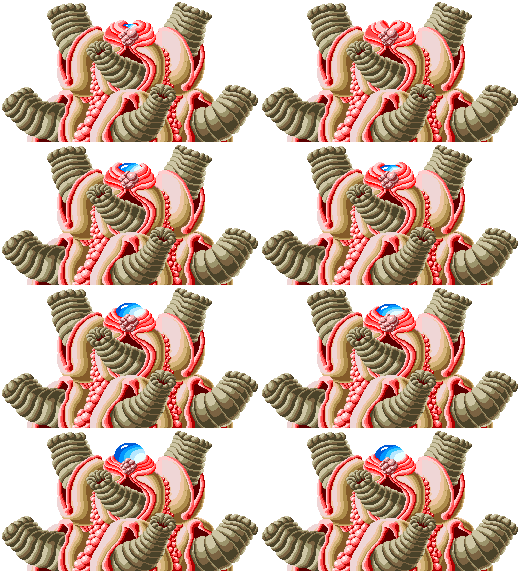
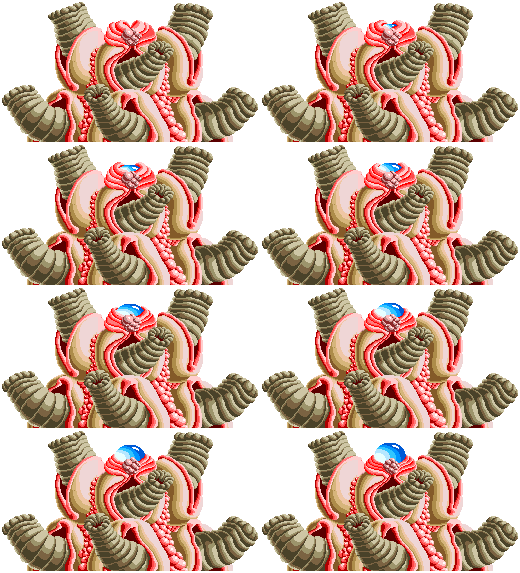
[Feature] implement image storage and handling technic (#47)
* [Feature] implement image storage and handling technic

* [Assets] add cluster to image

diff --git a/src/client/systems/SpriteSystem.cpp b/src/client/systems/SpriteSystem.cpp
@@ -10,6 +10,10 @@
 
 SpriteSystem::SpriteSystem(Manager* ECS) {
     this->_ECS = ECS;
+
+    this->_sheet[Animation::AnimationID::Orb] = {"resources/r-typesheet3.png", 1, 1, 16, 16, 12, 1, 1, 0};
+    this->_sheet[Animation::AnimationID::Vortex] = {"resources/r-typesheet30a.png", 1, 3, 31, 31, 3, 1, 2, 0};
+    this->_sheet[Animation::AnimationID::Cluster] = {"resources/r-typesheet32.png", 0, 0, 259, 142, 2, 3, 1, 1};
 }
 
 Texture2D SpriteSystem::loadSprite(const std::string path, const float xpos, const float ypos, const float xlen, const float ylen) {
@@ -31,16 +35,19 @@ Texture2D SpriteSystem::loadSprite(const std::string path, const float xpos, con
     return texture;
 }
 
-AnimationStr* SpriteSystem::loadAnimation(const std::string path, const float startX, const float startY, const float frameWidth,
-                                          const float frameHeight, const int animWidth, const int animHeight, const int separation) {
+AnimationStr* SpriteSystem::loadAnimation(AnimationSheet animationSheet) {
     AnimationStr* animation = new AnimationStr();
-    for (int y = 0; y < animHeight; y++) {
-        for (int x = 0; x < animWidth; x++) {
-            const float xPos = startX + (frameWidth * x) + (separation * x);
-            const float yPos = startY + (frameHeight * y) + (separation * y);
-            Texture2D sprite = this->loadSprite(path, xPos, yPos, frameWidth, frameHeight);
+    for (int y = 0; y < animationSheet.animHeight; y++) {
+        for (int x = 0; x < animationSheet.animWidth; x++) {
+            const float xPos = animationSheet.startX + (animationSheet.frameWidth * x) + (animationSheet.separationX * x);
+            const float yPos = animationSheet.startY + (animationSheet.frameHeight * y) + (animationSheet.separationY * y);
+            Texture2D sprite = this->loadSprite(animationSheet.path, xPos, yPos, animationSheet.frameWidth, animationSheet.frameHeight);
             animation->sequence.push_back(sprite);
         }
+    }
+
+    for (int i = animation->sequence.size() - 1; 0 <= i; i--) {
+        animation->sequence.push_back(animation->sequence[i]);
     }
     return animation;
 }
@@ -78,7 +85,7 @@ void SpriteSystem::apply() {
 }
 
 void SpriteSystem::addAnimation(EntityID ID, Animation::Component* component) {
-    this->_animationLayers[component->layer][ID] = this->loadAnimation("resources/r-typesheet3.png", 1, 1, 16, 16, 12, 1, 1);
+    this->_animationLayers[component->layer][ID] = this->loadAnimation(this->_sheet[component->animationID]);
 }
 
 std::chrono::time_point<std::chrono::system_clock> getNow() {

diff --git a/src/client/systems/SpriteSystem.hpp b/src/client/systems/SpriteSystem.hpp
@@ -26,6 +26,18 @@ struct AnimationStr {
     std::chrono::time_point<std::chrono::system_clock> timer = std::chrono::system_clock::now();
 };
 
+struct AnimationSheet {
+    std::string path;
+    float startX;
+    float startY;
+    float frameWidth;
+    float frameHeight;
+    int animWidth;
+    int animHeight;
+    int separationX;
+    int separationY;
+};
+
 class SpriteSystem : public System {
 public:
     SpriteSystem(Manager* ECS);
@@ -37,8 +49,7 @@ public:
     /**
      * Parses image file to extract all frames of an animation
      * */
-    AnimationStr* loadAnimation(const std::string path, const float startX, const float startY, const float frameWidth, const float frameHeight,
-                                const int animWidth, const int animHeight, const int separation);
+    AnimationStr* loadAnimation(AnimationSheet animationSheet);
 
     /**
      * Increments currently displayed frame of animation if enough time passed since the last update
@@ -61,4 +72,5 @@ private:
     cmrc::embedded_filesystem _fs = cmrc::client::get_filesystem();
     std::map<int, std::map<EntityID, AnimationStr*>> _animationLayers;
     Manager* _ECS;
+    std::map<Animation::AnimationID, AnimationSheet> _sheet;
 };

diff --git a/src/client/main.cpp b/src/client/main.cpp
@@ -49,8 +49,8 @@ private:
 };
 
 int main() {
-    const int screenWidth = 1600;
-    const int screenHeight = 900;
+    constexpr int screenWidth = 1600;
+    constexpr int screenHeight = 900;
 
     InitWindow(screenWidth, screenHeight, "R-Type");
 
@@ -67,8 +67,7 @@ int main() {
     em.addComp<Velocity::Component>(ent1, {0.05, -0.05});
 
     em.addComp<Position::Component>(ent2, {(float)(GetScreenWidth() * (1.0 / 3.0)), (float)(GetScreenHeight() - 50)});
-    em.addComp<Animation::Component>(ent2, {Animation::AnimationID::Orb, 1});
-    em.addComp<Velocity::Component>(ent2, {0.00, -0.05});
+    em.addComp<Animation::Component>(ent2, {Animation::AnimationID::Cluster, 1});
 
     spriteSystem->addAnimation(ent1, em.getComponent<Animation::Component>(ent1));
     spriteSystem->addAnimation(ent2, em.getComponent<Animation::Component>(ent2));

diff --git a/src/shared/ECS/Components.hpp b/src/shared/ECS/Components.hpp
@@ -45,9 +45,7 @@ namespace Position {
 } // namespace Position
 
 namespace Animation {
-    enum AnimationID {
-        Orb,
-    };
+    enum AnimationID { Orb, Vortex, Cluster };
     struct Component {
         AnimationID animationID;
         unsigned long layer;
